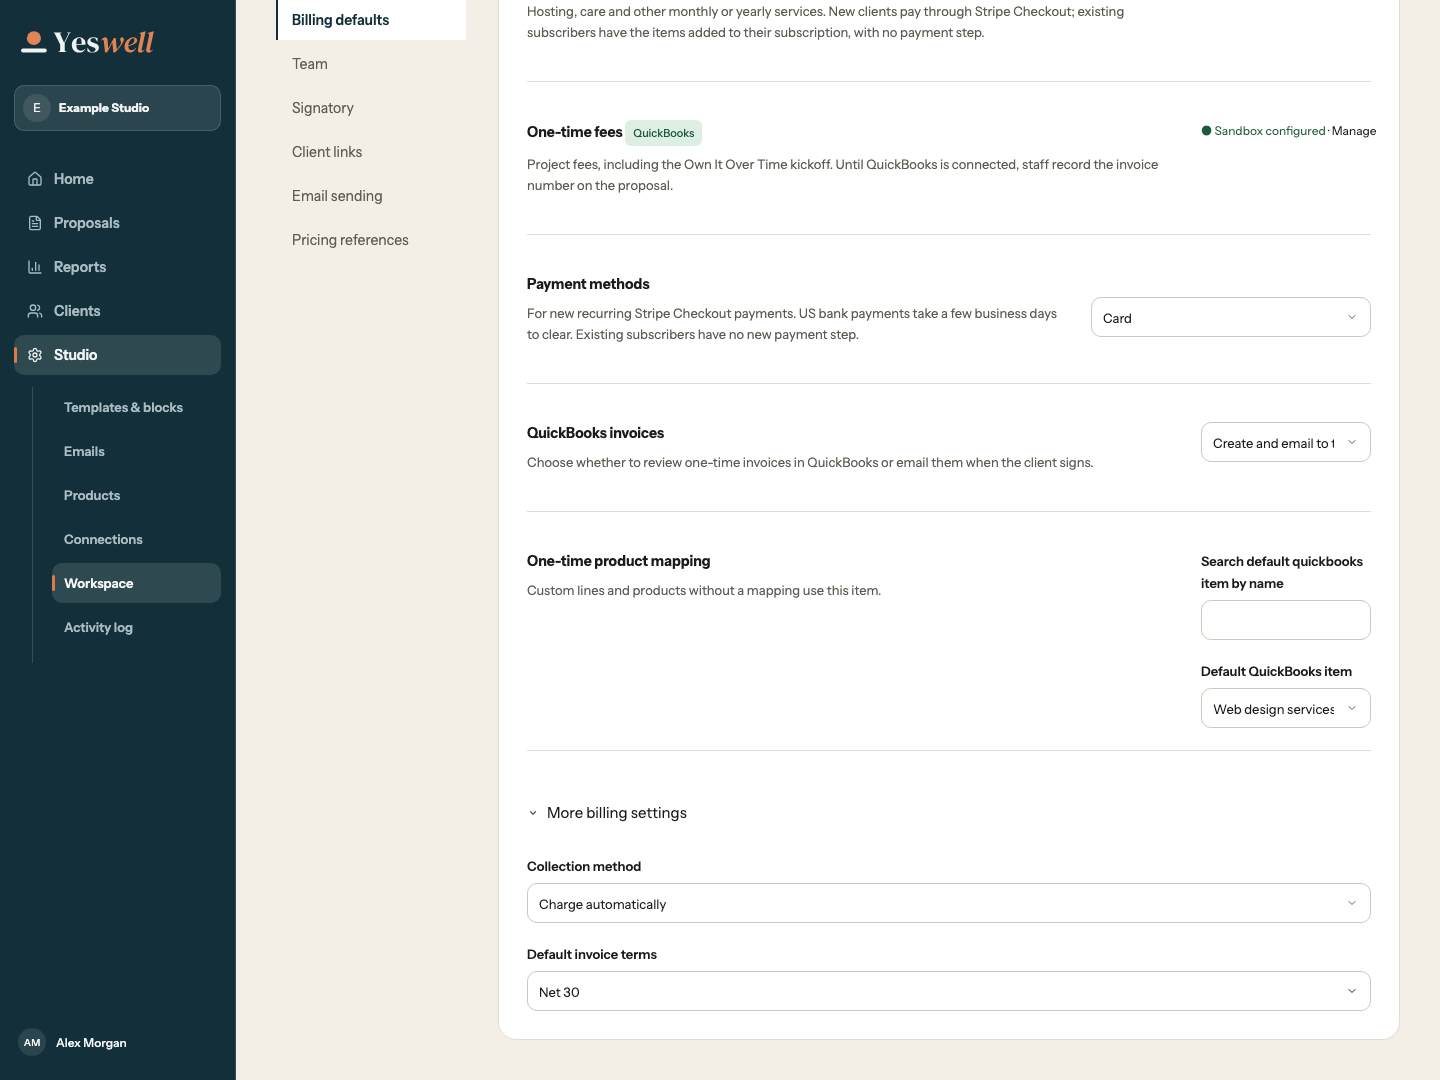
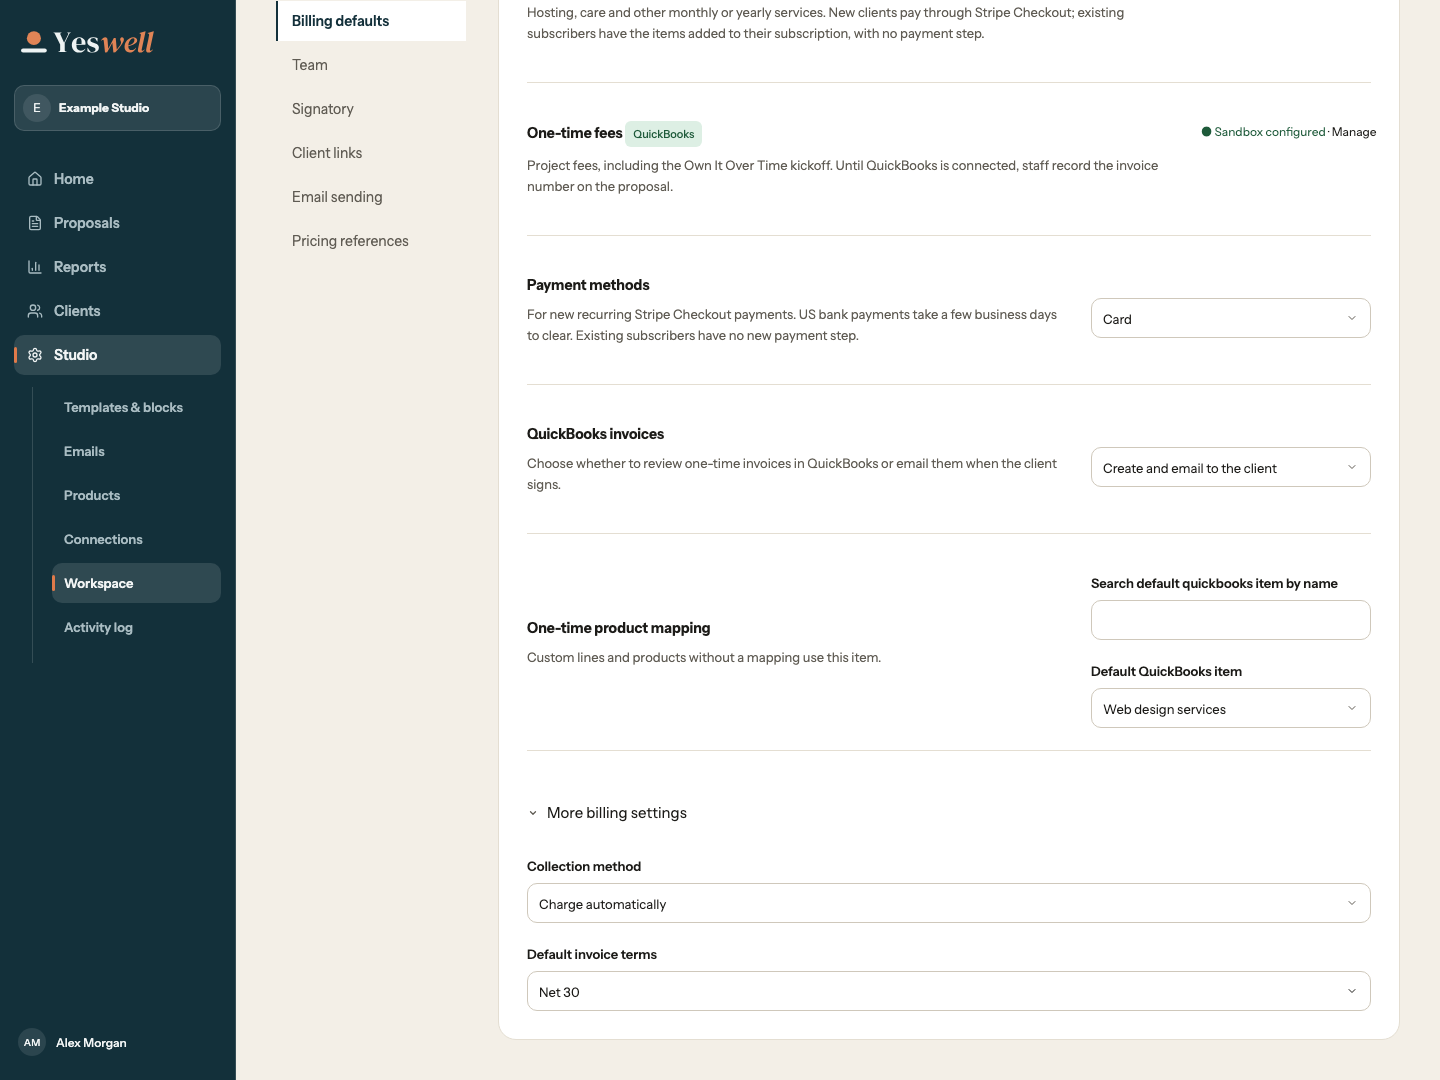
Keep QuickBooks invoice options readable

diff --git a/src/components/workspace-studio.tsx b/src/components/workspace-studio.tsx
@@ -828,7 +828,7 @@ export function WorkspaceStudio({
             · {data.connections?.qbo ? "Manage" : "Connect"}
           </a>
         </div>
-        <div className="workspace-setting-row workspace-payment-methods">
+        <div className="workspace-setting-row workspace-payment-methods workspace-billing-control">
           <div>
             <h3 id="payment-methods-label">Payment methods</h3>
             <p id="payment-methods-hint">
@@ -856,7 +856,7 @@ export function WorkspaceStudio({
             <option value="card_ach">Card + US bank account (ACH)</option>
           </Select>
         </div>
-        <div className="workspace-setting-row">
+        <div className="workspace-setting-row workspace-billing-control">
           <div>
             <h3 id="qbo-delivery-label">QuickBooks invoices</h3>
             <p>
@@ -882,7 +882,7 @@ export function WorkspaceStudio({
             <option value="email">Create and email to the client</option>
           </Select>
         </div>
-        <div className="workspace-setting-row">
+        <div className="workspace-setting-row workspace-billing-control">
           <div>
             <h3>One-time product mapping</h3>
             <p>Custom lines and products without a mapping use this item.</p>

diff --git a/src/app/studio-v3.css b/src/app/studio-v3.css
@@ -2135,16 +2135,16 @@
   }
 }
 
-.workspace-payment-methods {
+.workspace-billing-control {
   grid-template-columns: minmax(0, 1fr) minmax(220px, 280px);
   align-items: center;
 }
-.workspace-payment-methods select {
+.workspace-billing-control select {
   width: 100%;
   min-height: 44px;
 }
 @media (max-width: 699px) {
-  .workspace-payment-methods {
+  .workspace-billing-control {
     grid-template-columns: 1fr;
   }
 }
